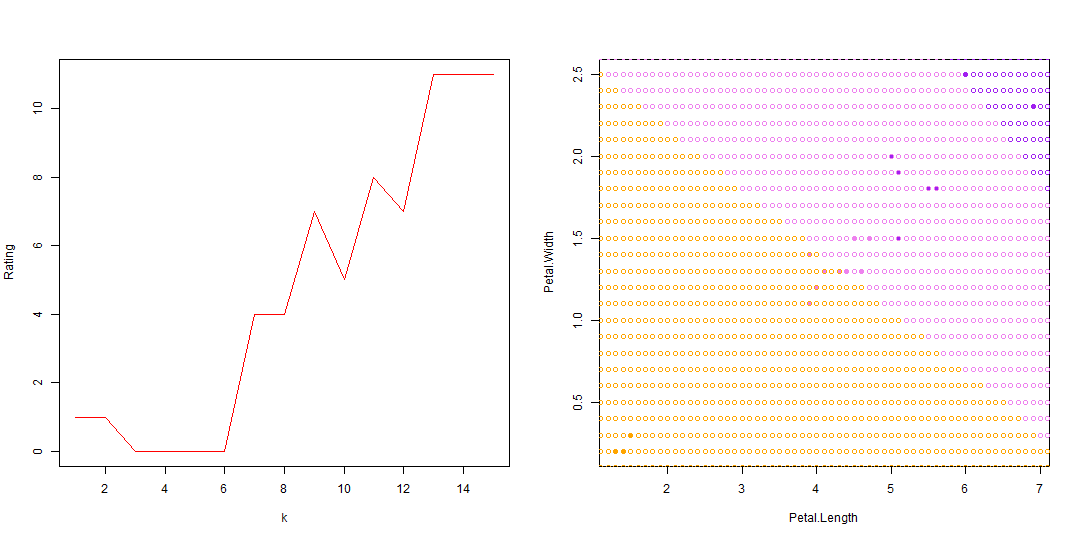
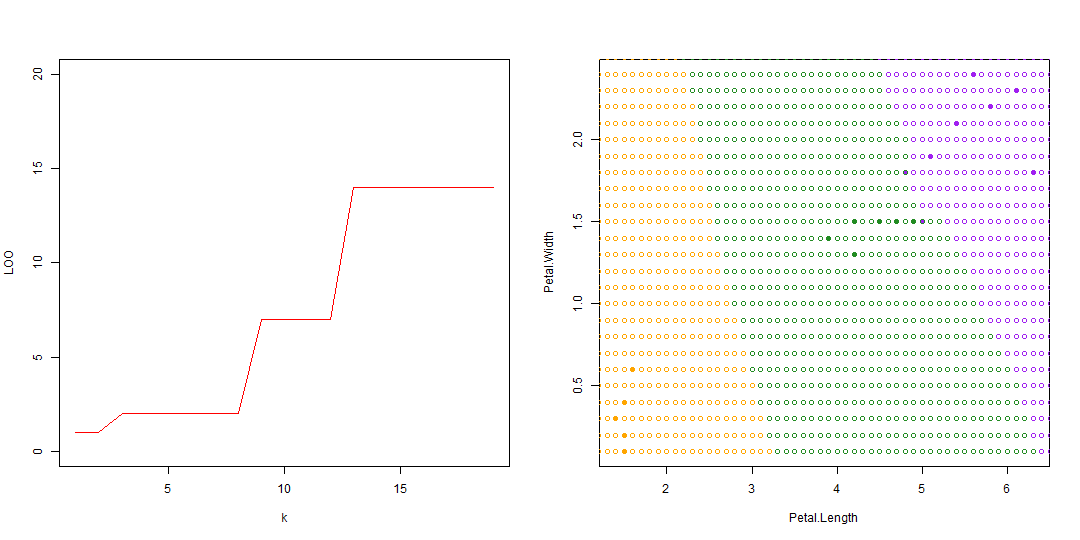
new graffics

diff --git a/README.md b/README.md
@@ -1,12 +1,13 @@
 # ml1
-Machine learning 1
-====================
+Пусть, данно множество объектов(выборка), разделеных некоторым образом на классы. Дан объект, класс которого неопределен. Задача классификации заключается в определении класса для этого обьекта на основе выборки.
+
 kNN
 -----------------------------
-Алгоритм находит ближайшие k обучающих точек относительно искомой и классифицирует её исходя из частоты встретившихся классов из этих точек.
+Алгоритм находит ближайшие k обучающих объектов относительно искомого и классифицирует её исходя из частоты встретившихся классов из этих объектов.
 
 Класификация пяти случайных точек алгоритмом 1NN.
 ![1NN - график для 5 точек](1NN_plot.png)
+
 
 Карта классификации для алгоритма 6NN
 ![6NN карта](6NN_map_plot.png)
@@ -50,7 +51,7 @@ kwNN
 #по умолчанию k=1
 kwNN <- function(dat, point, k = 1)
 {
-    #в качестве функции весов берем убывающую неотрицательную e^(-x/1000)
+    #в качестве функции весов берем убывающую неотрицательную e^(-x/l)
     w <- exp(-1:-k)
 
     #сортируем по расстоянию
@@ -62,7 +63,7 @@ kwNN <- function(dat, point, k = 1)
 
     #прибавляем веса к счетчику исходя из ближайших найденых классов
     for(i in 1:k){
-        classes[orderedDat[i, n+1]] = classes[orderedDat[i, n+1]] + w[i]
+        classes[orderedDat[i, n+1]] + w[i]
     }
 
     #определяем максимальный счетчик, и привязаный к нему класс
@@ -72,5 +73,5 @@ kwNN <- function(dat, point, k = 1)
 }
 ```
 
-Скользящая оценка алгоритма и карта для 6wNN.
+Скользящая оценка алгоритма и карта для 5wNN.
 ![LOO для kwNN - оценка для kwNN](LOO_kwNN_plot.png)
